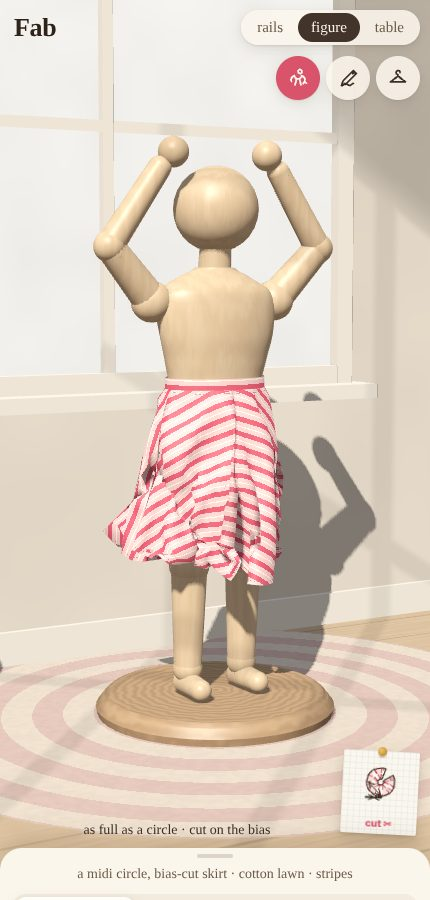
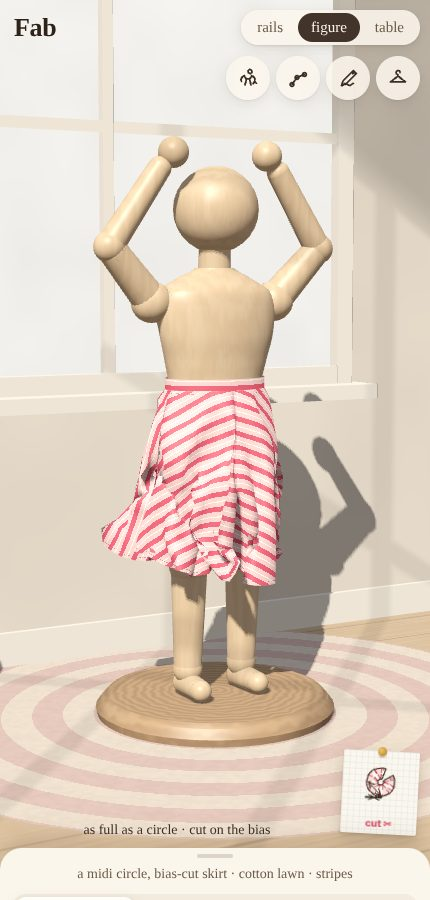
lab/fab: pose mode at the figure: its joints marked, drag an elbow, hand, knee, ankle or the head to re-pose (each pivots where it joins the limb above, a little at a time so the cloth goes with it); kept per stance on the device, with a reset; twirl lit only while it turns
body.ts keeps the figure as named joints (presets for arms up and down, and a
pose of one's own for each); LIMBS, BALLS and the distance field are rebuilt
from them. fab-smoke checks a lifted elbow and the reset; a pose view in the
README.

Claude-Session: https://claude.ai/code/session_01D2Nx3PayKJtFYoab5A57H3

diff --git a/cells/lab/client/fab/main.ts b/cells/lab/client/fab/main.ts
@@ -26,7 +26,7 @@
 import { Cloth } from './cloth';
 import { PatternTable, edgesOf } from './table';
 import { begin, record, replay, restore, state, travel, type Journal } from './journal';
-import { setPose } from './body';
+import { GRIPS, bend, gripAt, ownPoses, posedByHand, restorePoses, setPose, unpose, type Grip } from './body';
 import { collideLayers } from './layers';
 import { FABRICS, COLOURWAYS, PRINTS, fabricById, fabricOf, inksOf, printOf, type Fabric } from './fabric';
 import { DEFAULT_DESIGN, type Design, type Method, type Move, type Recipe, type Skirt } from './pattern';
@@ -649,6 +649,58 @@ $('cloth').addEventListener('click', () => { paper.cloth = !paper.cloth; ui(); }
 $('sew').addEventListener('click', () => make(true));
 let twirlUntil = 0;
 $('twirl').addEventListener('click', () => { twirlUntil = performance.now() + 3200; });
+// ─── posing it: a mode, its joints marked; take hold of one and it turns where it joins the limb above ─────────────
+// (the poses of one's own, kept on this device: one for arms up (to twirl a skirt), one for arms down (to wear a top))
+const POSE_KEY = 'fab.pose.v1';
+try { const o = JSON.parse(localStorage.getItem(POSE_KEY) ?? 'null'); if (o && typeof o === 'object') restorePoses(o); } catch { /* */ }
+const keepPoses = () => { try { localStorage.setItem(POSE_KEY, JSON.stringify(ownPoses())); } catch { /* */ } };
+let posing = qs.has('pose'), poseDrag: { grip: Grip; side: 0 | 1; x: number; y: number; id: number } | null = null;
+const jointEls = GRIPS.map(() => { const el = document.createElement('div'); el.className = 'joint'; $('stage').appendChild(el); return el; });
+function setPosing(on: boolean) {
+  posing = on; poseDrag = null;
+  document.body.classList.toggle('posing', on);
+  $('posing').classList.toggle('on', on); $('posing').setAttribute('aria-pressed', String(on));
+  if (on) toast('take hold of a joint and move it');
+}
+$('posing').addEventListener('click', () => setPosing(!posing));
+$('unpose').addEventListener('click', () => { unpose(); keepPoses(); toast('standing as it was'); });
+setPosing(posing);
+/** the figure's own frame to the room's: turned on its stand */
+const turned = (p: [number, number, number], a: number): [number, number, number] => { const c = Math.cos(a), s2 = Math.sin(a); return [p[0] * c + p[2] * s2, p[1], -p[0] * s2 + p[2] * c]; };
+/** where a joint is on the screen (css pixels), or null */
+function jointOnScreen(grip: Grip, side: 0 | 1): [number, number] | null {
+  if (!lastVP) return null;
+  const q = turned(gripAt(grip, side), cloth?.spin ?? 0), m = lastVP, x = m[0] * q[0] + m[4] * q[1] + m[8] * q[2] + m[12], y = m[1] * q[0] + m[5] * q[1] + m[9] * q[2] + m[13], w = m[3] * q[0] + m[7] * q[1] + m[11] * q[2] + m[15];
+  if (w <= 0) return null;
+  return [(x / w * 0.5 + 0.5) * canvas.clientWidth, (1 - (y / w * 0.5 + 0.5)) * canvas.clientHeight];
+}
+/** the nearest joint to a touch, within a fingertip */
+function jointNear(clientX: number, clientY: number): { grip: Grip; side: 0 | 1 } | null {
+  const r = canvas.getBoundingClientRect(), x = clientX - r.left, y = clientY - r.top;
+  let best: { grip: Grip; side: 0 | 1; d: number } | null = null;
+  for (const j of GRIPS) { const p = jointOnScreen(j.grip, j.side); if (!p) continue; const dd = Math.hypot(p[0] - x, p[1] - y); if (dd < 34 && (!best || dd < best.d)) best = { ...j, d: dd }; }
+  return best;
+}
+/** each frame while posing: the joints marked where they are; the one held turned toward the finger, a little at a time */
+function poseFrame() {
+  if (!posing || mode !== 'bench') return;
+  if (poseDrag) {
+    const ray = rayAt(poseDrag.x, poseDrag.y), spin = cloth?.spin ?? 0;
+    if (ray) {
+      // (where the finger is, at the joint's own depth: on the plane through it, square to the eye)
+      const J = turned(gripAt(poseDrag.grip, poseDrag.side), spin), n = ray.d, dn = n[0] * n[0] + n[1] * n[1] + n[2] * n[2];
+      const t = ((J[0] - ray.o[0]) * n[0] + (J[1] - ray.o[1]) * n[1] + (J[2] - ray.o[2]) * n[2]) / dn;
+      const P: [number, number, number] = [ray.o[0] + n[0] * t, ray.o[1] + n[1] * t, ray.o[2] + n[2] * t];
+      bend(poseDrag.grip, poseDrag.side, turned(P, -spin));
+    }
+  }
+  GRIPS.forEach((j, k) => {
+    const p = jointOnScreen(j.grip, j.side), el = jointEls[k];
+    el.style.visibility = p ? '' : 'hidden';
+    if (p) el.style.transform = `translate(${p[0].toFixed(1)}px, ${p[1].toFixed(1)}px)`;
+    el.classList.toggle('held', !!poseDrag && poseDrag.grip === j.grip && poseDrag.side === j.side);
+  });
+}
 
 // ─── the rails: where every skirt starts and ends ──────────────────────────────────────────────
 type Mode = 'rails' | 'bench' | 'table';
@@ -854,6 +906,8 @@ const local = (e: { clientX: number; clientY: number }) => { const r = canvas.ge
 canvas.addEventListener('pointerdown', (e) => {
   drag = true; lx = sx = e.clientX; ly = sy = e.clientY; st0 = performance.now(); axis = ''; canvas.setPointerCapture(e.pointerId); idle = 0;
   // (at the figure: a drag on it spins it on its stand (as from the table); off it, the view goes round it)
+  // (posing: a touch on a joint takes hold of it)
+  if (mode === 'bench' && posing && !pinch) { const j = jointNear(e.clientX, e.clientY); if (j) { drag = false; poseDrag = { ...j, x: e.clientX, y: e.clientY, id: e.pointerId }; return; } }
   if (mode === 'bench' && !pinch && onFigure(e.clientX, e.clientY)) { drag = false; spinStart(e); return; }
   if (mode === 'rails') {
     // (a long press on one of your own: take it off the rail)
@@ -869,6 +923,7 @@ canvas.addEventListener('pointerdown', (e) => {
   }
 });
 canvas.addEventListener('pointermove', (e) => {
+  if (poseDrag && e.pointerId === poseDrag.id) { poseDrag.x = e.clientX; poseDrag.y = e.clientY; idle = 0; return; }
   if (mode === 'bench' && figureDrag) { spinMove(e); return; }
   if (!drag || pinch) return;
   const dx = e.clientX - lx, dy = e.clientY - ly; lx = e.clientX; ly = e.clientY; idle = 0;
@@ -882,6 +937,7 @@ canvas.addEventListener('pointermove', (e) => {
 });
 canvas.addEventListener('pointerup', (e) => {
   drag = false; clearTimeout(press);
+  if (poseDrag && e.pointerId === poseDrag.id) { poseDrag = null; keepPoses(); return; }
   if (mode === 'bench' && figureDrag) {
     // (a tap on the figure, with more than one thing on: the one tapped is the one worked)
     if (spinEnd(e) && worn.length > 1) { const id = pickWorn(e.clientX, e.clientY); if (id && id !== activeItem) { selectItem(id); toast(`the ${d.family}`); } }
@@ -898,6 +954,7 @@ canvas.addEventListener('pointerup', (e) => {
     if (i === room.front()) wear(i); else { room.nudge(i, i > room.front() ? -1 : 1); room.goTo(i); }
   }
 });
+canvas.addEventListener('pointercancel', (e) => { if (poseDrag && e.pointerId === poseDrag.id) { poseDrag = null; keepPoses(); } });
 canvas.addEventListener('wheel', (e) => {
   e.preventDefault();
   if (mode === 'rails') { room.push(-(Math.abs(e.deltaX) > Math.abs(e.deltaY) ? e.deltaX : e.deltaY) * 0.08, 0.016); return; }
@@ -1136,7 +1193,7 @@ function frame(now: number) {
     // (looking at what's made: a skirt's or trousers' middle, a top's chest)
     const ty = qs.has('ty') ? BENCH_VIEW.target[1] : { skirt: 62, top: 82, dress: 70, trousers: 50, jumpsuit: 66 }[d.family];
     view.target[1] += (ty - view.target[1]) * (1 - Math.exp(-dt * 4));
-    if (!drag) { idle += dt; if (preview || idle > 8) view.az += dt * 0.1; }
+    if (!drag && !posing) { idle += dt; if (preview || idle > 8) view.az += dt * 0.1; }
   }
   if (mode === 'rails') { room.update(dt, 7); if (room.front() !== lastFront) railInfo(); }
   // (at the table, now and then: how big a fingertip is on the sheet from here, so its handles and badges are drawn a
@@ -1178,9 +1235,11 @@ function frame(now: number) {
   if (mode === 'rails') { /* (the paper's on the table, out of sight) */ }
   else if (!skirtPaper()) fit.paper = { canvas: wholeCv, version: 1e6 + wholeVersion, model: sheetModel() };
   else if (paper.version > 0) fit.paper = { canvas: paper.cv, version: paper.version, model: sheetModel() };
+  $('twirl').classList.toggle('on', now < twirlUntil);
   const shiftGoal = mode==='rails'?0: Math.min(canvas.clientHeight*.6,$('bench').getBoundingClientRect().height) / Math.max(1,canvas.clientHeight);
   view.shift += (shiftGoal - view.shift) * Math.min(1, dt * 6);
   lastVP = R.frame(view, items, w, h, cloth?.spin ?? 0, fit).vp;
+  poseFrame();
   renderMs = renderMs * 0.9 + (performance.now() - r0) * 0.1;
   frames++; framesWindow++; wallWindow += raw; wallTime += raw;
   // (once a second: the whole frame on this device, not only the cloth's part of it)
@@ -1214,7 +1273,7 @@ if (qs.has('twirl')) twirlUntil = performance.now() + 3200;
   // (for tests: the whole pattern's hems that can be worked with the tool in hand, where on the sheet)
   wholeHems: () => editor.handles.map(h=>({key:h.key,mid:[h.x,h.y]})),
   pieces: () => { const dpr = SHEET_W / Math.max(1, wholeCv.clientWidth); return laid.map((l) => ({ name: l.piece.name, mid: l.to(l.piece.flat(0.5, 0.5)).map((x) => x * dpr) })); },
-  pickWorn,
+  pickWorn, jointOnScreen, setPosing, posedByHand,
   editor, journal:()=>journal, outfit:()=>worn.map(w=>({id:w.id,family:w.d.family,active:w.id===activeItem,health:w.cloth?.health()})),selectItem,
   // (for tests: where a point in the room is on the screen; where a point of the paper's sheet is)
   roomToScreen: (q: [number, number, number]) => { const m = lastVP!, x = m[0] * q[0] + m[4] * q[1] + m[8] * q[2] + m[12], y = m[1] * q[0] + m[5] * q[1] + m[9] * q[2] + m[13], w = m[3] * q[0] + m[7] * q[1] + m[11] * q[2] + m[15], r = canvas.getBoundingClientRect(); return [r.left + (x / w * 0.5 + 0.5) * r.width, r.top + (1 - (y / w * 0.5 + 0.5)) * r.height]; },

diff --git a/cells/lab/client/fab/body.ts b/cells/lab/client/fab/body.ts
@@ -66,9 +66,15 @@ export const SHOULDERS: V3[] = [];
 export let pose: Pose = 'twirl';
 /** goes up whenever the figure's posed differently: whoever draws it knows to build it again */
 export let poseVersion = 0;
-function limbs(p: Pose) {
-  LIMBS.length = 0; BALLS.length = 0; SHOULDERS.length = 0;
-  for (const s of [-1, 1]) {
+/**
+ * Where its joints are, each side (0 its right, at -x; 1 its left): the shoulder and hip are fixed in the torso; the
+ * elbow, wrist and hand down an arm; the knee, ankle and the foot's two ends down a leg; and the head, on its neck.
+ */
+export interface Posed { sh: [V3, V3]; el: [V3, V3]; wr: [V3, V3]; hand: [V3, V3]; hp: [V3, V3]; kn: [V3, V3]; an: [V3, V3]; heel: [V3, V3]; toe: [V3, V3]; head: V3 }
+const NECK: V3 = [0, 95, -0.4];
+function preset(p: Pose): Posed {
+  const P = { sh: [], el: [], wr: [], hand: [], hp: [], kn: [], an: [], heel: [], toe: [] } as unknown as Posed;
+  for (const [k, s] of [[0, -1], [1, 1]] as const) {
     const sh = L(s * 15.6, 89.5, -0.6);
     let el: V3, wr: V3, hand: V3;
     if (p === 'twirl') { el = L(s * 26.5, 101.5, 1.2); wr = L(s * 15, 118.5, 2.4); hand = L(s * 11.8, 122, 2.8); }
@@ -76,16 +82,33 @@ function limbs(p: Pose) {
       // (the upper arm 16.3 cm at 45° below the line of the shoulders; the forearm 20.6 cm, a little nearer upright)
       el = L(s * (15.6 + 11.5), 89.5 - 11.5, 0.2); wr = L(s * (27.1 + 13.2), 78 - 15.8, 1.4); hand = L(s * (40.3 + 2.5), 62.2 - 3.4, 1.8);
     }
-    LIMBS.push({ a: sh, b: el, ra: 3.9, rb: 3.2 }, { a: el, b: wr, ra: 3.1, rb: 2.6 });
-    BALLS.push({ c: sh, r: 4.6 }, { c: el, r: 3.5 }, { c: hand, r: 3.4 });
-    const hp = L(s * 6.6, 55, -0.2), kn = L(s * 7, 30, 0.6), an = L(s * 7, 6, -0.2);
-    LIMBS.push({ a: hp, b: kn, ra: 5.6, rb: 4.4 }, { a: kn, b: an, ra: 4.2, rb: 3.2 });
-    BALLS.push({ c: kn, r: 4.6 }, { c: an, r: 3.4 });
+    P.sh[k] = sh; P.el[k] = el; P.wr[k] = wr; P.hand[k] = hand;
+    P.hp[k] = L(s * 6.6, 55, -0.2); P.kn[k] = L(s * 7, 30, 0.6); P.an[k] = L(s * 7, 6, -0.2);
     // (a foot: a short capsule forward)
-    LIMBS.push({ a: L(s * 7, 2.6, -1.5), b: L(s * 7.4, 2.6, 7), ra: 2.8, rb: 2.4 });
-    SHOULDERS.push(sh);
+    P.heel[k] = L(s * 7, 2.6, -1.5); P.toe[k] = L(s * 7.4, 2.6, 7);
   }
-  LIMBS.push({ a: L(0, 95, -0.4), b: L(0, 101, 0.2), ra: 3.8, rb: 3.6 });
+  P.head = L(0, 110, 0.4);
+  return P;
+}
+let posed: Posed = preset('twirl');
+/** a pose of one's own, for each of the two the figure's put in for what it wears (kept while it's worn) */
+const own: Partial<Record<Pose, Posed>> = {};
+const copyPosed = (P: Posed): Posed => JSON.parse(JSON.stringify(P));
+function limbs() {
+  LIMBS.length = 0; BALLS.length = 0; SHOULDERS.length = 0;
+  const P = posed;
+  for (const k of [0, 1]) {
+    LIMBS.push({ a: P.sh[k], b: P.el[k], ra: 3.9, rb: 3.2 }, { a: P.el[k], b: P.wr[k], ra: 3.1, rb: 2.6 });
+    BALLS.push({ c: P.sh[k], r: 4.6 }, { c: P.el[k], r: 3.5 }, { c: P.hand[k], r: 3.4 });
+    LIMBS.push({ a: P.hp[k], b: P.kn[k], ra: 5.6, rb: 4.4 }, { a: P.kn[k], b: P.an[k], ra: 4.2, rb: 3.2 });
+    BALLS.push({ c: P.kn[k], r: 4.6 }, { c: P.an[k], r: 3.4 });
+    LIMBS.push({ a: P.heel[k], b: P.toe[k], ra: 2.8, rb: 2.4 });
+    SHOULDERS.push(P.sh[k]);
+  }
+  // (the neck, from the shoulders up toward the head, however it's tilted)
+  const h = P.head, d = [h[0] - NECK[0], h[1] - NECK[1], h[2] - NECK[2]], l = Math.hypot(d[0], d[1], d[2]) || 1;
+  LIMBS.push({ a: NECK, b: [NECK[0] + (d[0] / l) * 6, NECK[1] + (d[1] / l) * 6, NECK[2] + (d[2] / l) * 6], ra: 3.8, rb: 3.6 });
+  HEAD.c = h;
 }
 export const HEAD = { c: L(0, 110, 0.4) as V3, r: 9.6 };
 /** the pelvis: a ball rounding off the torso's foot, between the legs */
@@ -103,19 +126,70 @@ function sec(y: number) {
 // ─── meeting it ─────────────────────────────────────────────────────────────────────────────────
 // (flat arrays, read without allocating: a cloth asks this of every particle several times a frame)
 let CAP = new Float32Array(0), SPH = new Float32Array(0);
-/** pose the figure (its arms): the distance field and anything drawn from LIMBS follow */
-export function setPose(p: Pose) {
-  if (p === pose && LIMBS.length) return;
-  pose = p; poseVersion++;
-  limbs(p);
+/** the distance field's own copy of the shapes, as they're posed */
+function field() {
   CAP = new Float32Array(LIMBS.length * 10);
   LIMBS.forEach((c, k) => {
     const ab = [c.b[0] - c.a[0], c.b[1] - c.a[1], c.b[2] - c.a[2]], ll = ab[0] * ab[0] + ab[1] * ab[1] + ab[2] * ab[2];
     CAP.set([c.a[0], c.a[1], c.a[2], ab[0], ab[1], ab[2], ll, c.ra, c.rb, (Math.sqrt(ll) / 2 + Math.max(c.ra, c.rb)) ** 2], k * 10);
   });
   SPH = new Float32Array([...BALLS, HEAD, PELVIS].flatMap((b) => [b.c[0], b.c[1], b.c[2], b.r]));
+  poseVersion++;
 }
-limbs('twirl'); pose = 'dress'; setPose('twirl'); poseVersion = 0;
+/** pose the figure for what it wears (arms up to twirl, down for a bodice), as it was last posed by hand for that, if
+ * it was: the distance field and anything drawn from LIMBS follow */
+export function setPose(p: Pose) {
+  if (p === pose && LIMBS.length) return;
+  pose = p; posed = copyPosed(own[p] ?? preset(p));
+  limbs(); field();
+}
+/** the joints that can be taken hold of: each pivots at the one above it, and what's below it goes with it */
+export type Grip = 'el' | 'hand' | 'kn' | 'an' | 'head';
+export const GRIPS: ReadonlyArray<{ grip: Grip; side: 0 | 1 }> = [
+  ...(['el', 'hand', 'kn', 'an'] as const).flatMap((grip) => [{ grip, side: 0 as const }, { grip, side: 1 as const }]), { grip: 'head', side: 0 },
+];
+/** where a joint is now (the figure's own frame) */
+export const gripAt = (g: Grip, side: 0 | 1): V3 => (g === 'head' ? posed.head : posed[g][side]);
+/** whether it's been posed by hand, for what it wears now */
+export const posedByHand = () => !!own[pose];
+/**
+ * Turn a joint toward a point (the figure's own frame): its bone pivots where it joins the one above (an elbow at the
+ * shoulder, a hand at the elbow, a knee at the hip, an ankle at the knee, the head on its neck), at most `step` radians
+ * at a time, so the cloth on it has time to move with it. Nothing goes below the stand's top; the head only nods.
+ */
+export function bend(g: Grip, side: 0 | 1, to: V3, step = 0.06): boolean {
+  const P = posed, k = side;
+  const [pivot, moving]: [V3, V3[]] = g === 'el' ? [P.sh[k], [P.el[k], P.wr[k], P.hand[k]]] : g === 'hand' ? [P.el[k], [P.wr[k], P.hand[k]]]
+    : g === 'kn' ? [P.hp[k], [P.kn[k], P.an[k], P.heel[k], P.toe[k]]] : g === 'an' ? [P.kn[k], [P.an[k], P.heel[k], P.toe[k]]] : [NECK, [P.head]];
+  const q = g === 'head' ? P.head : P[g][k];
+  const a = norm3([q[0] - pivot[0], q[1] - pivot[1], q[2] - pivot[2]]), b = norm3([to[0] - pivot[0], to[1] - pivot[1], to[2] - pivot[2]]);
+  if (!a || !b) return false;
+  let ang = Math.acos(Math.max(-1, Math.min(1, a[0] * b[0] + a[1] * b[1] + a[2] * b[2])));
+  if (ang < 1e-3) return false;
+  let ax = norm3([a[1] * b[2] - a[2] * b[1], a[2] * b[0] - a[0] * b[2], a[0] * b[1] - a[1] * b[0]]);
+  if (!ax) ax = [0, 0, 1];
+  ang = Math.min(ang, step);
+  const moved = moving.map((p) => rotAbout(p, pivot, ax!, ang));
+  // (the head nods and turns, a little: no further than 40° off upright)
+  if (g === 'head') { const h = norm3([moved[0][0] - NECK[0], moved[0][1] - NECK[1], moved[0][2] - NECK[2]])!; if (h[1] < Math.cos(0.7)) return false; }
+  if (moved.some((p) => p[1] < 1.2)) return false;
+  moving.forEach((p, i) => { p[0] = moved[i][0]; p[1] = moved[i][1]; p[2] = moved[i][2]; });
+  own[pose] = copyPosed(P);
+  limbs(); field();
+  return true;
+}
+/** back to how it stands for what it wears */
+export function unpose() { delete own[pose]; posed = preset(pose); limbs(); field(); }
+/** a pose of one's own, to keep and to give back */
+export const ownPoses = (): Partial<Record<Pose, Posed>> => JSON.parse(JSON.stringify(own));
+export function restorePoses(o: Partial<Record<Pose, Posed>>) { for (const k of ['twirl', 'dress'] as const) { if (o[k]) own[k] = o[k]; else delete own[k]; } posed = copyPosed(own[pose] ?? preset(pose)); limbs(); field(); }
+function norm3(v: number[]): V3 | null { const l = Math.hypot(v[0], v[1], v[2]); return l > 1e-9 ? [v[0] / l, v[1] / l, v[2] / l] : null; }
+/** p turned about an axis through c by `ang` (Rodrigues) */
+function rotAbout(p: V3, c: V3, k: V3, ang: number): V3 {
+  const v = [p[0] - c[0], p[1] - c[1], p[2] - c[2]], cs = Math.cos(ang), sn = Math.sin(ang), kd = k[0] * v[0] + k[1] * v[1] + k[2] * v[2];
+  const x = [k[1] * v[2] - k[2] * v[1], k[2] * v[0] - k[0] * v[2], k[0] * v[1] - k[1] * v[0]];
+  return [0, 1, 2].map((i) => c[i] + v[i] * cs + x[i] * sn + k[i] * kd * (1 - cs)) as V3;
+}
 /** the last answer: how far out of the body (negative inside), and which way's out */
 export const hit = { d: 0, nx: 0, ny: 1, nz: 0 };
 /** how far a point is from the body, into `hit` (and returned); only what's nearer than `near` is worked out exactly */

diff --git a/cells/lab/static/fab.html b/cells/lab/static/fab.html
@@ -35,7 +35,12 @@
     #acts svg { width: 16px; height: 16px; fill: none; stroke: currentColor; stroke-width: 1.8; stroke-linecap: round; stroke-linejoin: round; }
     #acts > .icon { width: 34px; height: 34px; padding: 0; justify-content: center; }
     #acts > .icon svg { width: 20px; height: 20px; }
-    #acts #twirl { background: var(--rose); color: #fff6ee; }
+    /* (twirl's a moment, not a mode: lit only while it turns. Posing's a mode: lit while it's on, its joints marked) */
+    #acts #twirl.on, #acts #posing.on { background: var(--rose); color: #fff6ee; }
+    body:not(.posing) #acts #unpose { display: none; }
+    .joint { position: absolute; left: 0; top: 0; width: 18px; height: 18px; margin: -9px 0 0 -9px; border-radius: 50%; border: 2px solid var(--rose); background: rgba(255,250,240,.3); box-shadow: 0 1px 6px rgba(60,30,20,.25); pointer-events: none; z-index: 3; transition: transform .05s linear, background .15s; }
+    .joint.held { background: var(--rose); }
+    body:not(.posing) .joint, body.table .joint, body.rails .joint { display: none; }
     #acts #cloth.on { background: var(--dark); color: #fbf3e6; }
     body.sheet #acts #pattern { background: var(--dark); color: #fbf3e6; }
 
@@ -218,6 +223,8 @@
     <nav><a href="/" class="back railsonly">←</a><span class="title">Fab</span><div id="places"><button data-place="rails">rails</button><button data-place="bench">figure</button><button data-place="table">table</button></div></nav>
     <div id="acts" class="benchonly">
       <button id="twirl" class="figonly icon" aria-label="twirl" title="twirl"><svg viewBox="0 0 20 20"><path d="M10 3.5a2 2 0 110 .01M7 17l1.5-6h3L13 17M8.5 11L6 8M11.5 11L14 8"/><path d="M3.5 13.5c-1.5-2.5.5-5 3-5.8M16.5 13.5c1.5-2.5-.5-5-3-5.8"/><path d="M15.2 15.8l1.3-2.3 1.8 1.8"/></svg></button>
+      <button id="posing" class="figonly icon" aria-label="pose the figure" title="pose the figure: drag a joint" aria-pressed="false"><svg viewBox="0 0 20 20"><path d="M4 16.5l5-7 7.5-3"/><circle cx="4" cy="16.5" r="1.8"/><circle cx="9" cy="9.5" r="1.8"/><circle cx="16.5" cy="6.5" r="1.8"/></svg></button>
+      <button id="unpose" class="figonly icon" aria-label="stand it as it was" title="stand it as it was"><svg viewBox="0 0 20 20"><path d="M6 6L3 9l3 3"/><path d="M3 9h9a4.5 4.5 0 010 9H9"/></svg></button>
       <button id="sew" class="figonly icon" aria-label="sew it up again" title="sew it up again"><svg viewBox="0 0 20 20"><path d="M15.5 2.5L5 13l-1.5 4.5L8 16 18.5 5.5z"/><circle cx="15.2" cy="4.8" r=".9"/><path d="M3.5 17.5c2 0 2-2 4-2s2 2 4 2 2-2 4-2"/></svg></button>
       <button id="cloth" class="tableonly icon" aria-label="the cloth on the paper" title="the cloth on the paper"><svg viewBox="0 0 20 20"><path d="M3 5l7-2 7 2v10l-7 2-7-2z"/><path d="M3 5l7 2 7-2M10 7v10"/></svg></button>
       <button id="hang" class="icon" aria-label="save to rail" title="save to rail"><svg viewBox="0 0 20 20"><path d="M10 6.5a2 2 0 112-2M10 6.5v1.5L2.5 14h15L10 8"/></svg></button>

diff --git a/cells/lab/static/fab.md b/cells/lab/static/fab.md
@@ -507,7 +507,7 @@ The workshop is one room, and the camera walks between three places in it. They'
 | place | where | its drawer | along the top |
 |---|---|---|---|
 | **the rails** | along the wall, to the left | the rails' name tags; put a skirt on the figure | |
-| **the figure** | on its stand, in the middle | what it is (**make**: skirt, top, dress, trousers, jumpsuit; tiers), the **bodice** (neckline, sleeves, collar; length, room, swing) and the **legs**, when it has them; fabric, print and colour | **twirl** and **sew** (icons), **save to rail** |
+| **the figure** | on its stand, in the middle | what it is (**make**: skirt, top, dress, trousers, jumpsuit; tiers), the **bodice** (neckline, sleeves, collar; length, room, swing) and the **legs**, when it has them; fabric, print and colour | **twirl**, **pose** and **sew** (icons), **save to rail** (icon) |
 | **the cutting table** | to one side, facing the figure | the tool in hand: what it does, the gestures it answers to, what it's set to; panels, tiers, undo, the history (the tools themselves are a palette down the right). A top's or trousers' whole pattern lies there to be looked at, without tools | **cloth** (an icon), **save to rail** |
 
 ![the rails](fab/v-rails.jpg)
@@ -653,6 +653,13 @@ so nothing jumps between one gesture and the next.
   cloth is keeping up with the clock. The cloth runs in fixed 1/60 s steps, at most two a frame: on a slow device it
   slows down, rather than falling further and further behind.
 - **twirl**: spins the figure on its stand.
+- **pose**: a mode (lit while it's on; twirl is only lit while it turns). Its joints are marked: take hold of an elbow, a
+  hand, a knee, an ankle or the head and move it, and the limb turns where it joins the one above (an elbow at the
+  shoulder, a hand at the elbow, a knee at the hip, an ankle at the knee; the head nods on its neck), a little at a
+  time, so what it wears is pushed along with it. Nothing goes below the stand. A pose is kept on this device for each
+  way it stands (arms up for a skirt, down for a bodice); the arrow beside it stands it as it was.
+
+![posed: an arm out, a knee up, the dress moving with them](fab/v-pose.jpg)
 - **sew**: lays the pieces out flat and sews them up again.
 - `?sheet` opens the whole pattern: the pieces with their grain lines, darts and pleats, how
   many to cut, the notes the cut made, and the pattern's checks. (It's no longer a button: the pinned note and the

diff --git a/cells/lab/static/fab/views.md b/cells/lab/static/fab/views.md
@@ -6,6 +6,7 @@ Made by `node cells/lab/views.mjs fab` from `client/fab/views.mjs`. The README i
 
 ![The rails: a rail per person; slide along, tap the front one to put it on](v-rails.jpg)
 ![The figure: cloth and print in the drawer; the pattern pinned up, bottom right](v-figure.jpg)
+![Posed: pose mode: its joints marked; an elbow and a knee taken hold of and moved, the dress pushed along with them](v-pose.jpg)
 ![Turned round: the cutting table behind it: tap it to go there](v-figure-turned.jpg)
 ![The cutting table: the pattern at true size, the figure across the room](v-table.jpg)
 ![Looking up from the table: drag (or pinch) off the piece to look up at the figure](v-table-up.jpg)
